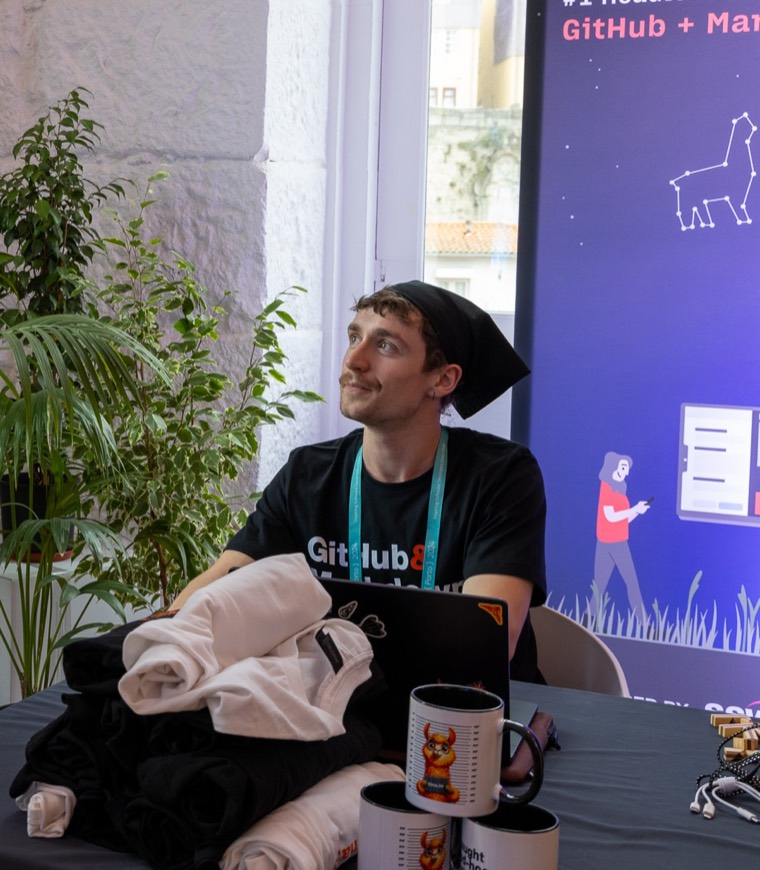
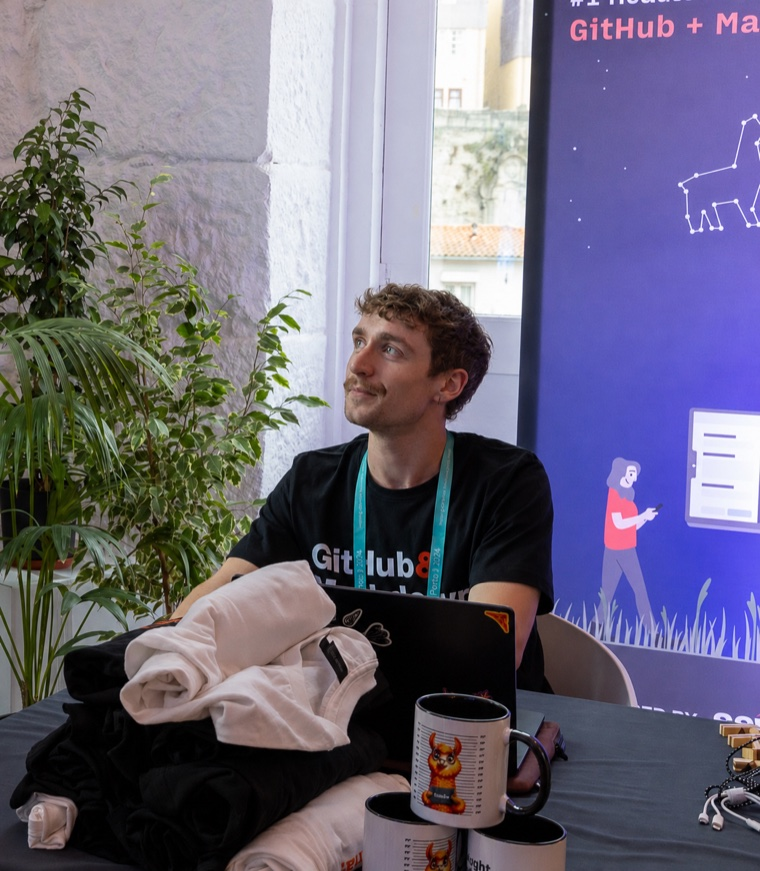
Work: new TinaCMS card photo. Contact: force textarea rounded-none so it sits flush with the controls (fixes the mobile bg gap from the shadcn base rounding)

Changed region(s): [[0.0, 0.0, 1.0, 1.0], [0.0, 0.8379, 0.2118, 1.0], [0.8776, 0.1241, 1.0, 0.2793]]

diff --git a/components/ui/animated-ai-input.tsx b/components/ui/animated-ai-input.tsx
@@ -179,7 +179,7 @@ export function LeadCaptureChat() {
                             value={value}
                             placeholder="What can I build for you?"
                             className={cn(
-                                "w-full resize-none border-none bg-black/5 px-4 py-3 placeholder:text-black/70 focus-visible:ring-0 focus-visible:ring-offset-0",
+                                "w-full resize-none rounded-none border-none bg-black/5 px-4 py-3 placeholder:text-black/70 focus-visible:ring-0 focus-visible:ring-offset-0",
                                 "min-h-[72px]"
                             )}
                             ref={textareaRef}